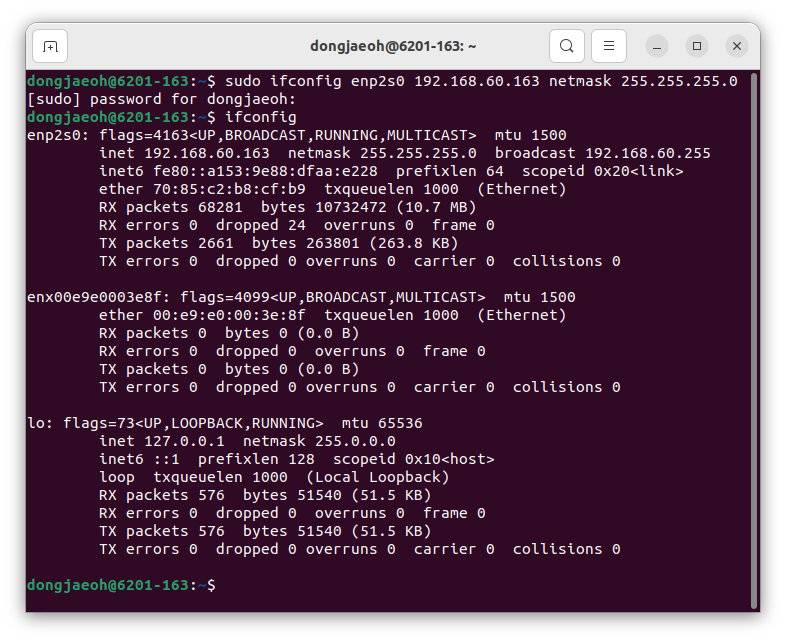
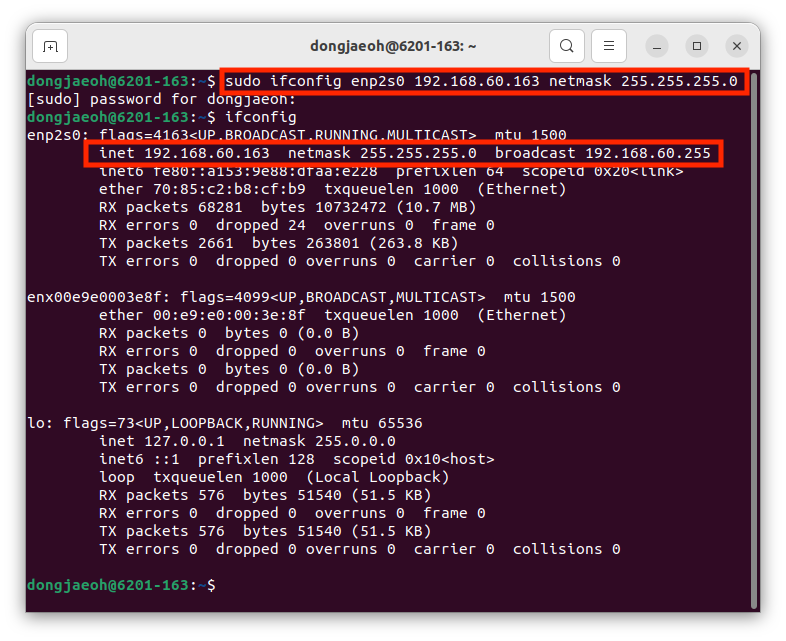
네트워크 정리 끄읕....

Changed region(s): [[0.0916, 0.2184, 0.9466, 0.2808], [0.2748, 0.0936, 0.9771, 0.156]]

diff --git a/linux/network_config.md b/linux/network_config.md
@@ -1,22 +1,22 @@
 # 리눅스 네트워크 설정
 
-### 네트워크 설정 준비
+## 1. 네트워크 설정 준비
 
 ---
 
-#### 개요
+### 1.1 개요
 
 이전 시간에 부트로더를 일부 수정하여 명령어를 새롭게 추가했던 작업과 같이 커널에서도 `System Call Interface`와 `Device Driver Interface`를 일부 수정하여 새로운 작업을 시도하고자 한다.
 
 
-#### Target Host Connection
+### 1.2 Target Host Connection
 
 현재까지 Target과 Host의 연결은 콘솔 확인하기 위한 `serial` 연결과 부트로더 모니터링 모드 진입을 위한 `usb`연결로 이루어졌다. 이와 더불어 새로운 `application`을 로드하기 위해 `ethernet network` 연결을 진행하고자 한다.
 
 `usb` 연결에서 데이터 통신을 위해 `fastboot`라는 클라이언트-서버 프로그램을 사용했던 것과 같이 `ethernet network` 연결에서 또한 `tftp` 서버 프로그램을 설치해야 한다.
 
 
-#### Windows에서 고정 IP 확인하기
+### 1.3 Windows에서 고정 IP 확인하기
 
 타켓에는 `ethernet network`를 연결할 수 있는 인터페이스가 있다. 호스트 컴퓨터에는 `usb ethernet`을 통해 네트워크를 연결한다. Windows와 같이 리눅스 컴퓨터 또한 고정 IP를 설정할 필요가 있다.
 
@@ -29,48 +29,250 @@
 * TCP/IP 버전 4 확인
 * IP 주소, 서브넷 마스크, 게이트웨이, DNS 서버 확인 후 옮겨 적기
 
-### 리눅스에서 네트워크 설정하기
+## 2. 리눅스에서 네트워크 설정하기
 
 ---
 
-#### USB 이더넷 연결 확인
+### 2.1 USB 이더넷 케이블 연결하기
 
-이더넷 케이블에는 양쪽 색 배열이 달라 컴퓨터와 컴퓨터를 연결하는데 사용되는 크로스 오버 케이블과 컴퓨터와 스위치 등을 연결할 때 사용되는 다이렉트 케이블이 있다. 케이블을 연결하고 `ifconfig` 명령어를 입력하여 연결을 확인한다.
+컴퓨터 네트워크를 연결할 때는 흔히 랜선이라고 부르는 `UTP` 케이블을 사용하게 된다. 이 케이블은 다이렉트 케이블과 크로스 오버 케이블 두 종류가 있는데, 컴퓨터와 컴퓨터를 연결할 때는 크로스 오버 케이블을 사용하고 컴퓨터와 스위치를 연결할 때는 다이렉트 케이블을 사용한다. 하지만 요즘은 다이렉트 케이블이라 하더라도 컴퓨터와 컴퓨터를 연결할 때 자동으로 맞추어 인식하기 때문에 어떤 케이블을 사용해도 문제 없다.
+
+<br>
+
+다음 명령어들을 통해 케이블이 정상 연결되어있는지 확인한다.
+
+<br>
+
+```shell
+ ifconfig
+ lspci
+ lsusb
+```
+
+<br>
 
 ![alt text](<./image/Screenshot from 2024-05-09 09-42-05.png>)
 
-`lspci` 명령어를 통해 리얼텍 온보드와 연결된 것을 확인한다.
+<br>
 
 ![alt text](<./image/Screenshot from 2024-05-09 09-42-17.png>)
 
-usb를 통한 연결을 확인하고 싶으면 다음과 같이 `lusb` 명령을 통해 확인한다.
-![alt text](<./image/Screenshot from 2024-05-09 09-42-58.png>)
-인터페이스 정보 확인
-![alt text](<./image/Screenshot from 2024-05-09 09-53-30.png>)
-인터페이스에 IP 설정하기
-![alt text](<./image/Screenshot from 2024-05-09 09-55-45.png>)
-라우팅 테이블 설정하기
-![alt text](<./image/Screenshot from 2024-05-09 10-05-50.png>)
+<br>
 
-![alt text](<./image/Screenshot from 2024-05-09 10-07-10.png>)
+![alt text](<./image/Screenshot from 2024-05-09 09-42-58.png>)
+
+<br>
+
+### 2.2 네트워크 설정 방식 소개
+
+리눅스에서 네트워크를 설정하는 방식에는 크게 3가지가 있다. 첫 번째는 **`ifconfig`와 `route` 명령어**를 이용해서 설정하는 전통적인 방식, 두 번째는 **우분투 리눅스 배포판에서 사용 가능한 `netplan`** 을 이용해 설정하는 방식, 마지막으로 손쉽게 **GUI를 이용**해서 설정하는 방식이 있다.
+
+<br>
+
+먼저 GUI를 이용하는 방식의 경우 우측 상단에 네트워크 탭에서 다음과 같은 화면에서 메뉴얼 설정 방식을 통해 네트워크 정보를 조작할 수 있다.
+
+<br>
+
+![alt text](<./image/Screenshot from 2024-05-09 09-49-07.png>)
+
+<br>
+
+![alt text](<./image/Screenshot from 2024-05-09 09-49-56.png>)
+
+<br>
+
+네트워크를 설정하는 큰 순서 3가지는 1번 **IP 주소 설정**, 2번 **디폴트 케이트워이 설정**, 3번 **DNS 설정**으로 이루어진다.
+
+<br>
+
+### 2.3 IP 주소 설정하기
+
+먼저 현재 사용하고 있는 IP 주소는 `192.168.63.XX`로 중간에 63이 들어간 DHCP 도메인이다. 따라서 IP주소를 고정 IP로 변경할 필요가 있다. 먼저 다음 명령어를 통해 네트워크 인터페이스에 대한 정보를 확인한다.
+
+```shell
+netstat -i
+```
+
+<br>
+
+![alt text](<./image/Screenshot from 2024-05-09 09-53-30.png>)
+
+<br>
+
+그리고 `ifconfig` 명령어를 통해 나온 첫 번째 인터페이스 이름에 대해 다음 명령어를 입력한다. 여기서는 IP주소는 본인 컴퓨터의 IP 주소를 작성한다.
+
+```shell
+sudo ifconfig enp2s0 192.168.60.163 netmask 255.255.255.0
+```
+
+<br>
+
+![alt text](<./image/Screenshot from 2024-05-09 09-54-25.png>)
+
+<br>
+
+![alt text](<./image/Screenshot from 2024-05-09 09-55-45.png>)
+
+### 2.4 디폴트 게이트웨이 설정하기
+
+<br>
+
+라우팅 테이블에 방금 설정한 네트워크 정보가 등록되어있지 않다면 수동으로 라우팅 테이블에 방금 설정한 IP를 등록해 준다. 먼저 IP 주소 설정을 마쳤으면 다음 명령어로 라우팅 테이블의 정보를 확인한다.
+
+<br>
+
+등록 되어있지 않다면 다음 명령어로 수동으로 정보를 등록한다.
+
+```shell
+sudo route add -net 192.168.60.0 netmask 255.255.255.0 enp2s0
+```
+<br>
+
+다음 명령어로 디폴트 게이트웨이를 설정하여 준다.
+
+```shell
+sudo route add default gw 192.168.60.1
+```
+
+<br>
+
+다음과 같이 라우팅 테이블의 정보를 다시 확인해 보면 제대로 등록된 것을 확인할 수 있다.
+
+```shell
+route -n
+```
+
+<br>
+
+![alt text](<./image/Screenshot from 2024-05-09 10-07-31.png>)
+
+<br>
+
+IP 주소 설정과 디폴트 게이트웨이 설정을 마치면 기본적인 네트워크 통신이 가능하다. 테스트를 위해 임의의 주소에 핑을 찍어보면 제대로 전송되는 것을 확인할 수 있다.
+
+<br>
+
 ![alt text](<./image/Screenshot from 2024-05-09 10-08-05.png>)
 
-네트워크 설정 파일
-![alt text](<./image/Screenshot from 2024-05-09 10-37-40.png>)
-![alt text](<./image/Screenshot from 2024-05-09 10-44-50.png>)
+<br>
 
-권한 부여
+### 2.5 DNS 설정하기
+
+DNS 설정의 경우 직접적으로 설정을 진행하는 명령어가 따로 없기 때문에 설정 파일을 직접 수정해 주어야 한다. 해당 파일을 수정하면 네트워크 매니저라는 데몬이 해당 파일을 자동으로 읽어들인다. 해당 설정 파일의 위치는 다음과 같다.
+
+```shell
+/etc/netplan/01-network-manager-all.yaml
+```
+
+<br>
+
+그리고 해당 파일을 vi 명령어로 열어준다.
+
+<br>
+
+![alt text](<./image/Screenshot from 2024-05-09 10-37-40.png>)
+
+<br>
+
+처음 들어가면 해당 파일 안에는 별 내용이 적혀 있지 않다. `enp2s0`에 해당하는 이더넷 이름을 입력해 준다. 그리고 dhcp는 사용하지 않을 것이므로 no를 입력하고 `addresses`에 현재 해당 컴퓨터의 IP 주소를 입력한다. 디폴트 게이트웨이 정보를 다음으로 입력하고 DNS 서버 정보를 마지막으로 입력하여 준다. (성공회대에서 관리하는 DNS 주소가 두 개라 둘 모두 입력한다.)
+
+<br>
+
+![alt text](<./image/Screenshot from 2024-05-09 10-44-01.png>)
+
+<br>
+
+저장하고 나오고 나서 설정 파일을 다시 읽어들이기 위해 다음 명령어를 입력한다.
+
+```shell
+sudo netplan apply
+```
+
 ![alt text](<./image/Screenshot from 2024-05-09 10-45-55.png>)
 
-![alt text](<./image/Screenshot from 2024-05-09 10-46-35.png>)
-![alt text](<./image/Screenshot from 2024-05-09 10-46-41.png>)
+<br>
 
-![alt text](<./image/Screenshot from 2024-05-09 10-46-52.png>)
+비록 경고 문구가 뜨지만 적용이 된 것이다. 경고 내용은 야믈 파일에 대한 권한이 너무 오픈 되어있다는 것이다. other와 group의 권한 중 읽기 권한을 제외한다.
+
+```shell
+sudo chmod o-r 01-network-manager-all.yaml #other
+sudo chmod g-r 01-network-manager-all.yaml #group
+```
+
+<br>
+
 ![alt text](<./image/Screenshot from 2024-05-09 10-52-02.png>)
 
-이더넷 케이블 연결 후 핑 테스트
+<br>
+
+## 3. Target 네트워크 연결
+
+---
+
+미니컴으로 콘솔을 연결하고 이더넷까지 제대로 케이블을 연결하여 준다.
+
+<br>
+
+이번에는 연결된 이더넷 인터페이스에 대해 IP 주소를 설정하여 준다. 방식은 외부 네트워크 인터페이스에 대해 IP 주소를 설정했던 것과 동일하다.
+
+```shell
+sudo ifconfig enx00e9e0003e8f 10.10.10.1 netmask 255.255.255.00
+```
+
+<br>
+
+![alt text](<./image/Screenshot from 2024-05-09 11-00-27.png>)
+
+<br>
+
+Target으로 이동해서 `ifconfig` 명령어를 입력한다. `eth0` 인터페이스를 확인한다.
+
+<br>
+
 ![alt text](<./image/Screenshot from 2024-05-09 11-04-15.png>)
 
-![alt text](<./image/Screenshot from 2024-05-09 11-30-07.png>)
-![alt text](<./image/Screenshot from 2024-05-09 11-30-49.png>)
+<br>
+
+그리고 이번에도 이에 대한 IP 주소를 등록하여 준다. 네트워크는 Host와 연결될 네트워크와 동일하게 설정한다.
+
+```shell
+ifconfig eth0 10.10.10.2 netmask 255.255.255.0
+```
+
+<br>
+
+등록을 마쳤으면 ping으로 연결 테스트를 해본다.
+
+<br>
+
 ![alt text](<./image/Screenshot from 2024-05-09 11-19-54.png>)
+
+<br>
+
+반대로 Host에서도 `ping 10.10.10.2`에 대한 요청이 제대로 전달이 된다면 다시 설정 파일을 열어서 `enx00e9e0003e8f` 인터페이스에 대한 네트워크 설정을 해준다. 디폴트 게이트웨이와 DNS는 하나의 인터페이스에서만 한 번 해주면 되기 때문에 생략한다.
+
+```shell
+sudo vi /etc/netplan/01-network-manager-all.yaml
+```
+
+<br>
+
+![alt text](<./image/Screenshot from 2024-05-09 11-30-07.png>)
+
+<br>
+
+설정을 완료했으면 다시 재반영 해준다.
+
+```shell
+sudo netplan apply
+```
+
+<br>
+
+`ifconfig`를 입력해보면 다음과 같이 잘 반영된 것을 확인할 수 있다.
+
+<br>
+
+![alt text](<./image/Screenshot from 2024-05-09 11-30-49.png>)
+
+<br>
